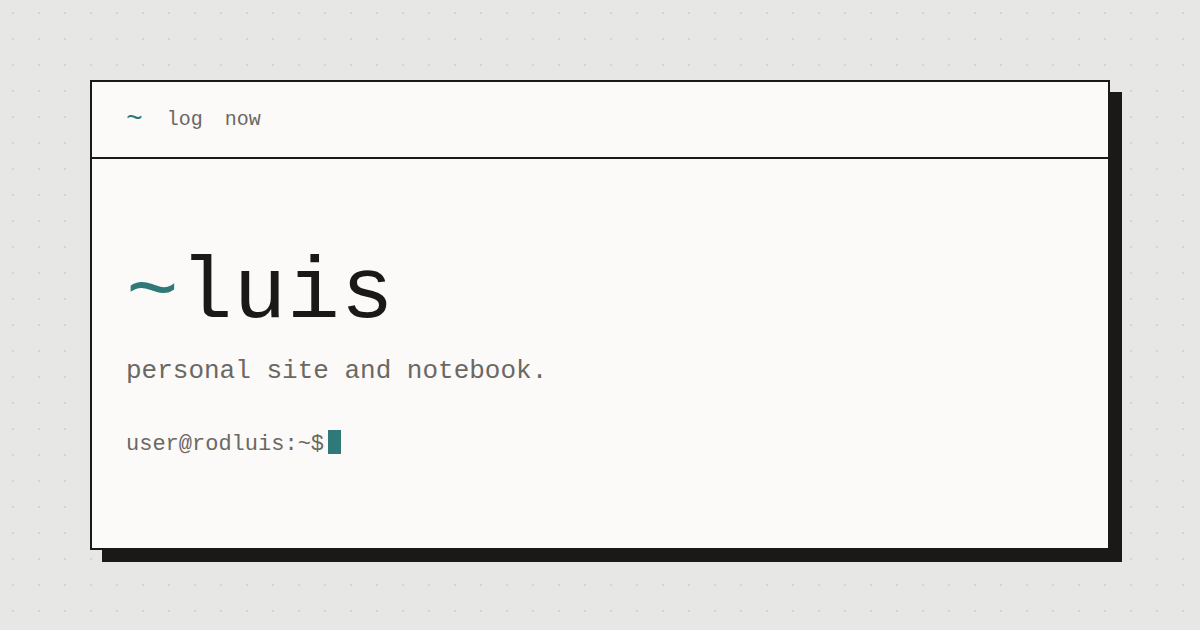
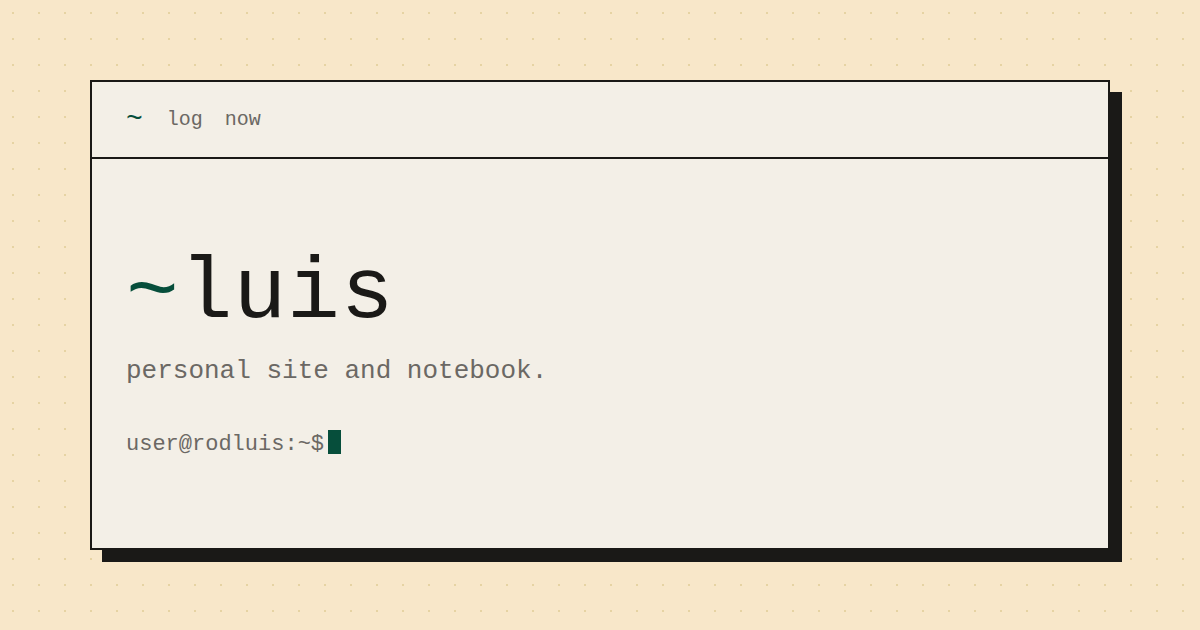
Repaint the default theme to a champagne/emerald palette, with matching terminal and log-body accents

diff --git a/src/styles/tokens.css b/src/styles/tokens.css
@@ -26,27 +26,61 @@
                                     mirroring --measure's cap on its width */
 }
 
+/* "emerald ink" -- 2026-09-28 repaint. The color story lives in the
+   desktop backdrop (champagne) and the accent (emerald ink); the paper
+   itself stays the same neutral off-white it always was, so body copy
+   is never read against a saturated color -- champagne is a warm frame
+   around the window, not the surface you're reading. */
 :root,
 [data-theme="default"] {
-  --bg:           #fbfaf8;   /* warm off-white, never pure white -- the "paper" inside the terminal window */
-  --bg-desktop:   #e7e8e6;   /* the "desktop" behind the window -- deliberately cooler/
-                                 grayer than the paper, not warm cream, so the two read
-                                 as different surfaces rather than one bootcamp-cream page */
-  --rule-desktop: #d3d5d2;   /* the desktop's own dot pattern, cooled to match */
+  --bg:           #f3efe7;   /* warmed off-white -- nudged toward champagne's hue so the
+                                 paper and the desktop read as one warm family, but kept
+                                 far lighter/less saturated than champagne itself since
+                                 body copy still sits directly on this surface */
+  --bg-desktop:   #f8e7c9;   /* "champagne" -- the desktop behind the window. This is
+                                 where the warm color story actually lives */
+  --rule-desktop: #e6d3a3;   /* the desktop's own dot pattern, a shade down from champagne */
   --fg:        #1a1917;
   --fg-dim:    #6b6864;   /* metadata, the `type help` hint */
-  --rule:      #e2dfd9;   /* ASCII separators, borders */
-  --accent:    #2f7a78;   /* status dot, focus rings - used sparingly. A cool
-                               teal on purpose: the desktop is already a cool
-                               neutral (deliberately not warm cream, see above),
-                               so the one color note in the system stays in that
-                               same cool family instead of fighting it with a
-                               warm orange/amber */
+  --rule:      #d9d4c8;   /* ASCII separators, borders -- a shade down from the warmed --bg */
+  --accent:    #064e3b;   /* "emerald ink" -- status dot, focus rings, links, used
+                               sparingly. High contrast against the off-white paper
+                               (~14:1) without any adjustment */
 
   --term-bg:     #171614;   /* terminal overlay */
-  --term-fg:     #e8e5df;
-  --term-dim:    #7d7a73;
-  --term-accent: #5cbab6;   /* --accent, brightened -- the regular accent is
-                                tuned for the light paper and reads too dark/
-                                muddy as a border against this near-black bg */
+  --term-fg:     #ece3d1;   /* warmed off-white, champagne-tinted rather than neutral gray */
+  --term-dim:    #857e6c;
+  --term-accent: #e2c99c;   /* NOT a brightened --accent: a bright emerald on near-black
+                                reads as literal green-phosphor "hacker terminal" cliche.
+                                Pulling the terminal's accent from champagne instead --
+                                a soft, pale gold rather than a saturated brass/orange --
+                                ties the border straight back to --bg-desktop's color,
+                                just lightened less than champagne itself so it still
+                                reads as a distinct edge against --term-bg */
+  --term-cursor: #1ab38a;   /* the one deliberate exception -- just the blinking text
+                                caret is a brightened, vivid version of --accent's hue.
+                                A single small green blink reads as a classic-terminal
+                                wink rather than the cliche a whole green UI would be;
+                                --accent itself is too dark to be visible as a caret on
+                                --term-bg (it was tuned for the light paper) */
 }
+
+/*
+ * Previous default (2026-09-14 -- 2026-09-27): a cool teal accent on a
+ * warm paper / cool-gray desktop. Kept here, unwired, as the values to
+ * reach for if/when this becomes a selectable second theme rather than
+ * a replacement. Not an active [data-theme] block -- no switcher exists
+ * yet, this is just so the exact values aren't lost.
+ *
+ * --bg:           #fbfaf8;
+ * --bg-desktop:   #e7e8e6;
+ * --rule-desktop: #d3d5d2;
+ * --fg:        #1a1917;
+ * --fg-dim:    #6b6864;
+ * --rule:      #e2dfd9;
+ * --accent:    #2f7a78;
+ * --term-bg:     #171614;
+ * --term-fg:     #e8e5df;
+ * --term-dim:    #7d7a73;
+ * --term-accent: #5cbab6;
+ */

diff --git a/src/styles/global.css b/src/styles/global.css
@@ -150,6 +150,50 @@ a:focus-visible {
   text-decoration-color: currentColor;
 }
 
+/* inside a log entry's own markdown content, the accent shows up
+   unprompted rather than only on hover -- links read as accent-colored
+   from the start, and a <s> strikeout (used a lot in log entries for
+   the "correcting myself" bit) gets an accent-colored line instead of
+   inheriting plain --fg, so the one accent color threads through the
+   actual writing, not just the site chrome around it */
+.log-body a {
+  color: var(--accent);
+  text-decoration-color: var(--accent);
+}
+
+.log-body s,
+.log-body del {
+  text-decoration-color: var(--accent);
+}
+
+/* <mark> as a quiet accent outline rather than the default yellow
+   highlighter-pen fill -- a filled block of color would compete with
+   the one accent used everywhere else. Text color stays --fg (not
+   accent) so it doesn't read as a link, just a boxed annotation */
+.log-body mark {
+  background: none;
+  color: inherit;
+  border: 1px solid var(--accent);
+  border-radius: 2px;
+  padding: 0 0.2em;
+  box-decoration-break: clone;
+  -webkit-box-decoration-break: clone;
+}
+
+/* a quoted line gets the accent as a left border/margin note, the way
+   you'd underline a passage in a physical notebook -- text itself
+   stays dim, same treatment as other metadata-ish text on the page */
+.log-body blockquote {
+  margin: 1em 0;
+  padding-left: 1em;
+  border-left: 2px solid var(--accent);
+  color: var(--fg-dim);
+}
+
+.log-body blockquote p:last-child {
+  margin-bottom: 0;
+}
+
 a:focus-visible,
 button:focus-visible,
 input:focus-visible,
